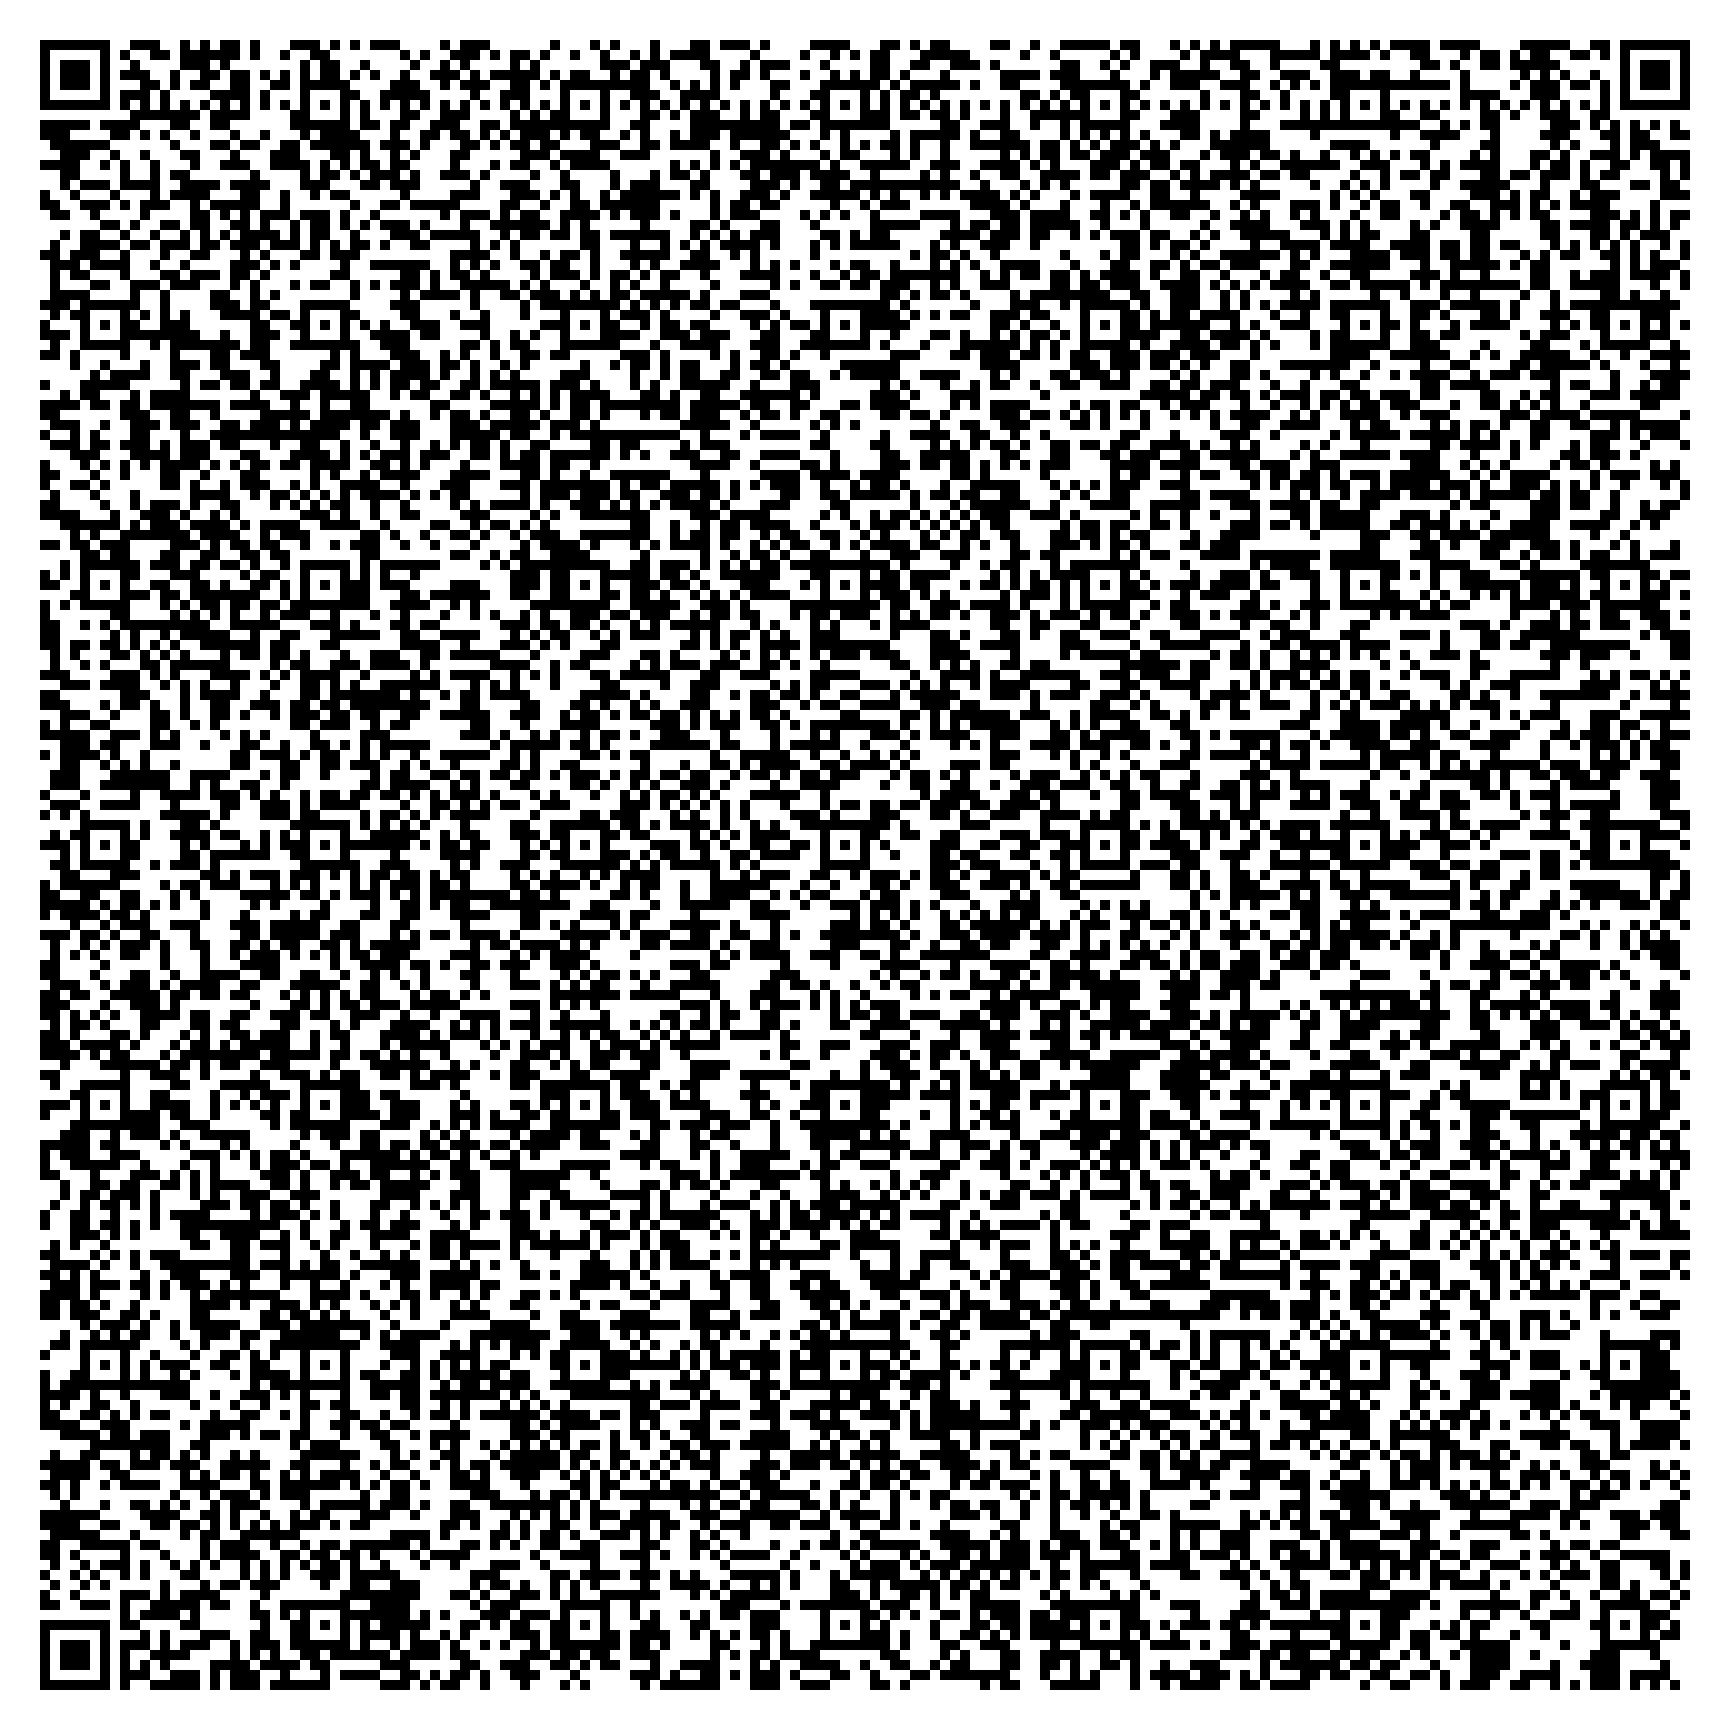
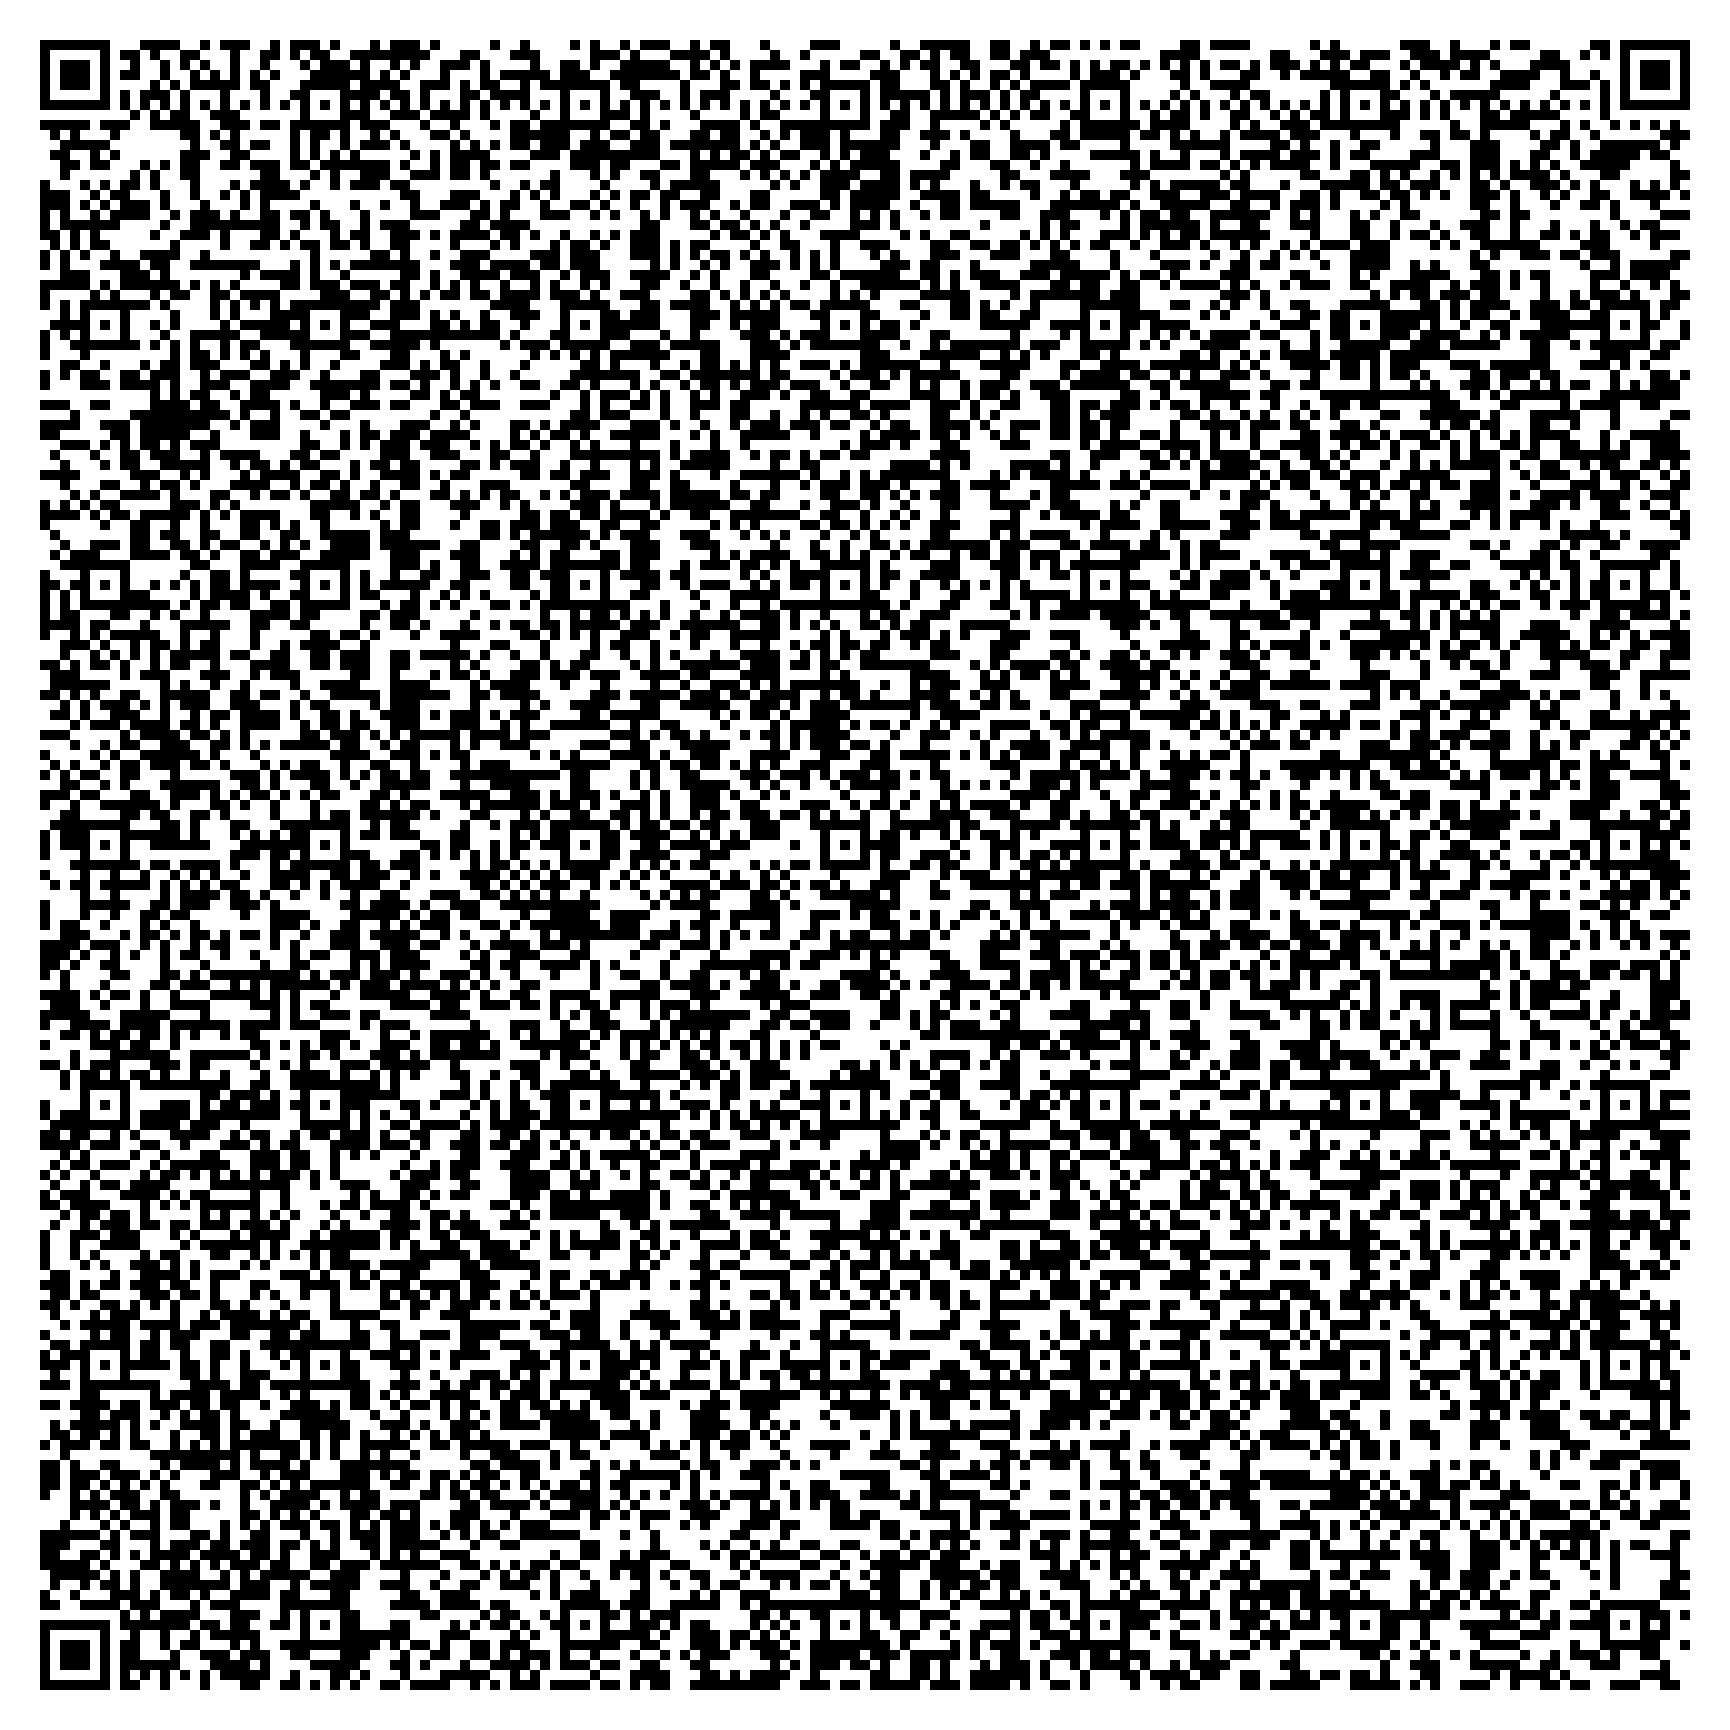
made the QR code  self extracting

diff --git a/qrgen.py b/qrgen.py
@@ -8,17 +8,14 @@ import zlib
 import qrcode
 
 
-def build_restore_command(input_file_name: str, b64_payload: str) -> str:
+def build_runner_payload(input_file_name: str, b64_payload: str) -> str:
     return (
-        "python -c \"import base64,zlib,pathlib;"
-        f"pathlib.Path('{input_file_name}').write_bytes("
-        f"zlib.decompress(base64.b64decode('{b64_payload}'),31));"
-        f"print('wrote {input_file_name}')\""
+        "python -c \"import base64,zlib,pathlib,runpy;"
+        f"p=pathlib.Path('{input_file_name}');"
+        f"p.write_bytes(zlib.decompress(base64.b64decode('{b64_payload}'),31));"
+        "print('wrote',p);"
+        "runpy.run_path(str(p),run_name='__main__')\""
     )
-
-
-def build_raw_payload(input_file_name: str, b64_payload: str) -> str:
-    return f"PICOQR|{input_file_name}|gzip+base64|{b64_payload}"
 
 
 def make_qr(payload: str, output_file: str, error_level: str) -> None:
@@ -55,14 +52,8 @@ def parse_args() -> argparse.Namespace:
     parser.add_argument(
         "output_png",
         nargs="?",
-        default="picogpt_qr.png",
-        help="Output QR image path (default: picogpt_qr.png)",
-    )
-    parser.add_argument(
-        "--mode",
-        choices=["python-cmd", "raw"],
-        default="python-cmd",
-        help="Payload format inside the QR (default: python-cmd)",
+        default="qrcode.png",
+        help="Output QR image path (default: qrcode.png)",
     )
     parser.add_argument(
         "--ec",
@@ -88,10 +79,7 @@ def main() -> None:
     b64_payload = base64.b64encode(compressed).decode("ascii")
 
     input_file_name = os.path.basename(args.input_file)
-    if args.mode == "python-cmd":
-        payload = build_restore_command(input_file_name, b64_payload)
-    else:
-        payload = build_raw_payload(input_file_name, b64_payload)
+    payload = build_runner_payload(input_file_name, b64_payload)
 
     print(f"Input bytes: {len(raw_data)}")
     print(f"Compressed bytes (gzip): {len(compressed)}")
@@ -105,10 +93,7 @@ def main() -> None:
         sys.exit(2)
 
     print(f"QR code saved to: {args.output_png}")
-    if args.mode == "python-cmd":
-        print("Scan/copy payload and run it in a terminal to recreate the file.")
-    else:
-        print("Raw mode payload is: PICOQR|<filename>|gzip+base64|<data>")
+    print("Scan/copy payload and paste in terminal to restore and run the script.")
 
 
 if __name__ == "__main__":

diff --git a/README.md b/README.md
@@ -27,4 +27,10 @@ So uh yeah, that's all this is, I minified it further at [picogpt.py](picogpt.py
 
 The `qrgen.py` script is adapted from my **Doom running inside a QR code** project: [backdooms](https://github.com/kuberwastaken/backdooms).
 
+The QR now contains a single bootstrap command.
+When scanned, copy the text and paste it in a terminal to:
+
+1. restore `picogpt.py`
+2. run `picogpt.py` immediately
+
 As for the naming choice, iykyk
